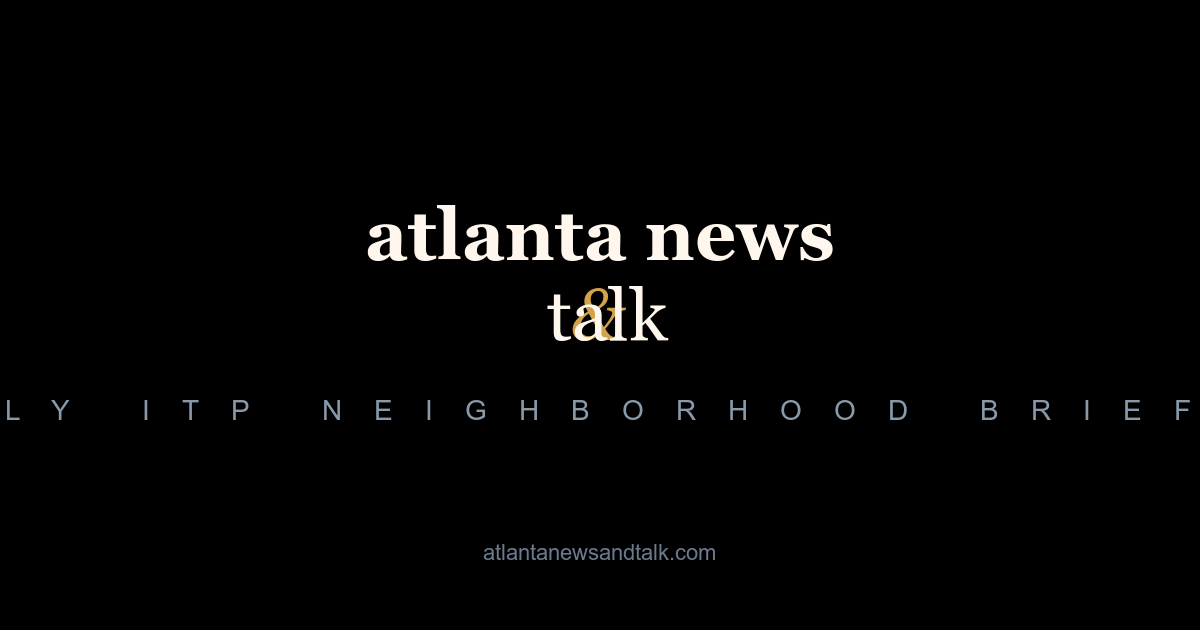
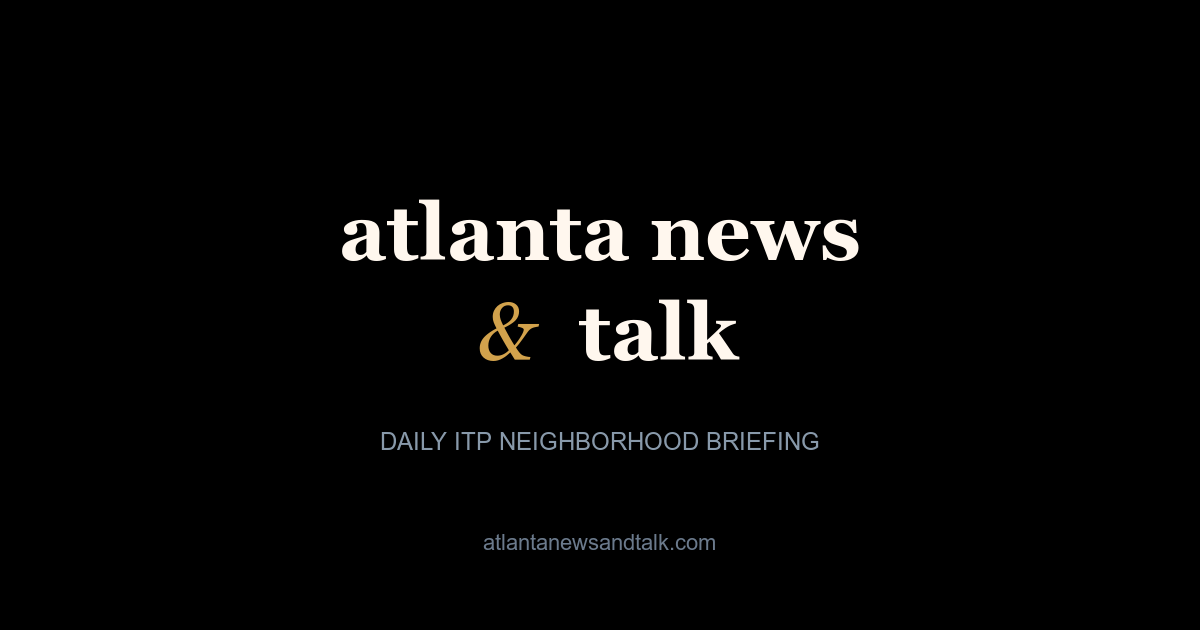
fix neighborhood 404s, source diversity, og image
- Generate all 36 neighborhood pages from static JSON (not daily stories)
- Add source diversity rule to summarization (one story per source max)
- Fix OG image layout (was cut off and jumbled)
- Update favicon with top accent stripe

diff --git a/CLAUDE.md b/CLAUDE.md
@@ -75,6 +75,10 @@ When multiple sources cover the same story, merge into a single entry with a `so
 
 Article pages render multi-source stories with "Reported by N sources" and buttons to each original. Prefer Tier 1/2 as primary source.
 
+## Source Diversity
+
+Each daily digest includes at most ONE story per source. This prevents any single publication (especially prolific ones like Urbanize Atlanta) from dominating the homepage. The summarization prompt enforces this rule.
+
 ## Pinned Stories
 
 `src/data/pinned-stories.json` contains stories that persist across daily digest rebuilds. Merged into Development & Housing section at build time by `helpers.ts`. Use for SEO client content or stories that should remain visible. Each entry follows the `Story` interface with `"pinned": true`.
